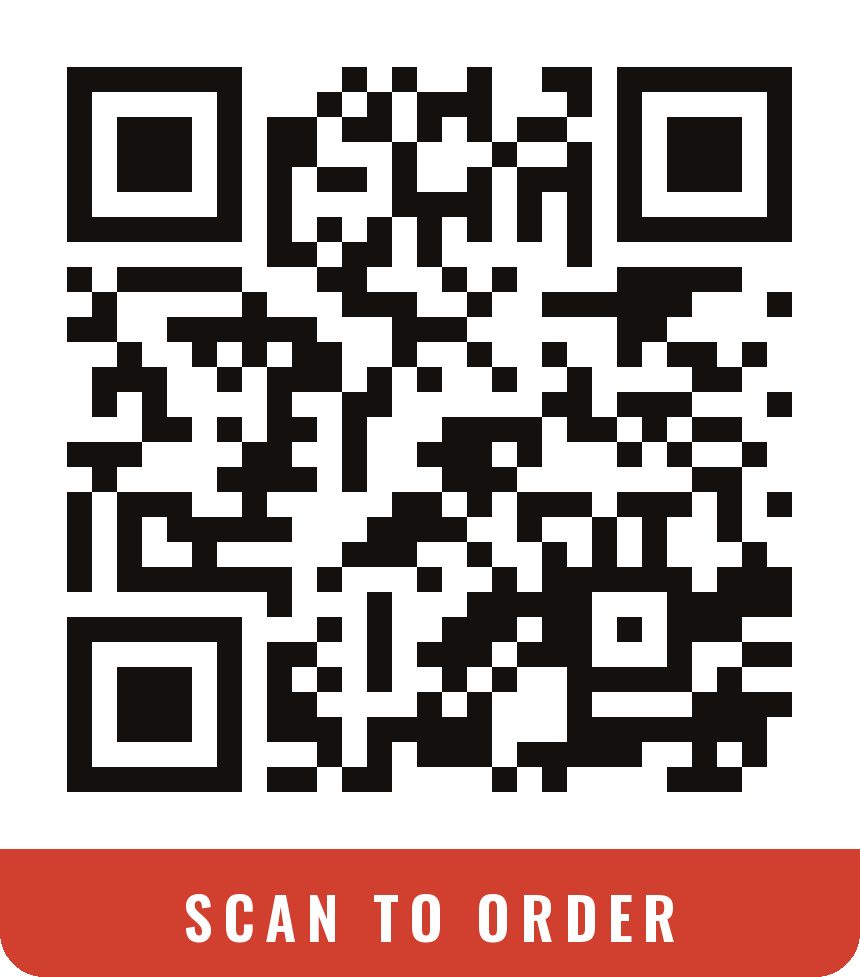
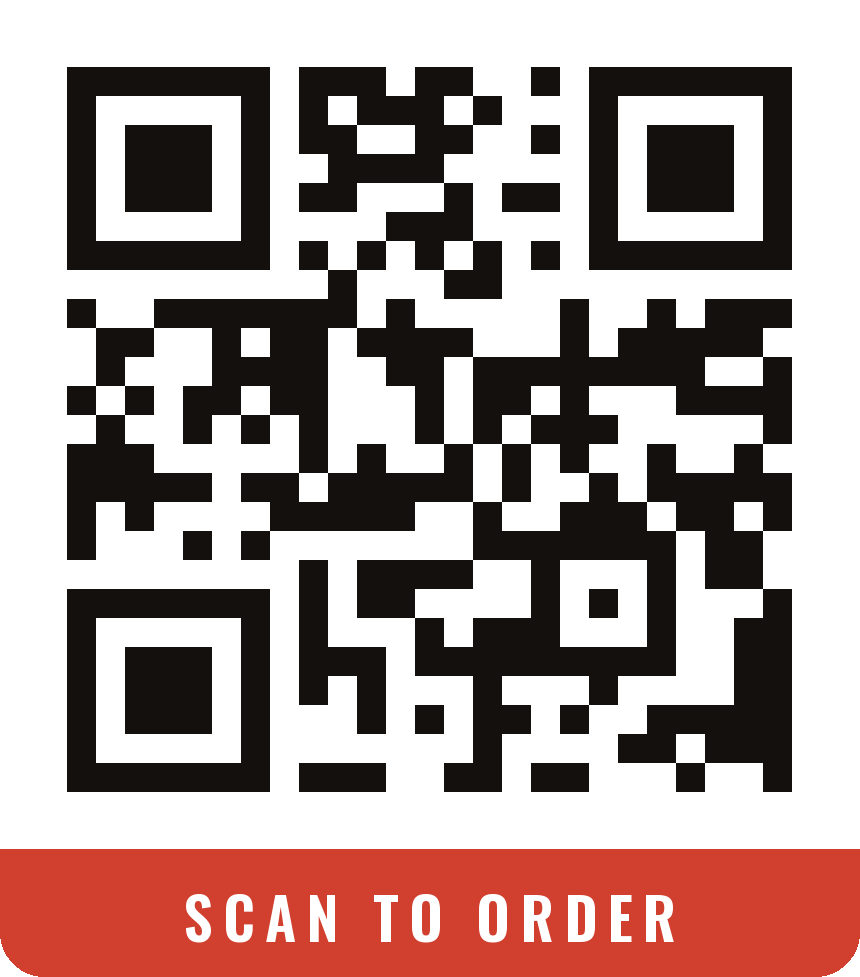
QR scenes now use QR Tiger dynamic links (scan tracking)
Claude-Session: https://claude.ai/code/session_01Hn3nXvhXzh1Uqx1hd1ZeG3

diff --git a/boards/v2c/menu.html b/boards/v2c/menu.html
@@ -527,7 +527,7 @@
     // Cards are built by a script (white tile + "SCAN TO ..." bar). To point a
     // code somewhere else (e.g. QR Tiger tracking links), regenerate the PNG.
     { id: "qr-order", type: "signature", slot: "qr", eyebrow: "Skip the Line", title: "Order Ahead",
-      desc: "Scan to order online for pickup or delivery", brandImg: "qr-order.png", art: { w: 330 } },     // roccospizzarestaurantmenu.com
+      desc: "Scan to order online for pickup or delivery", brandImg: "qr-order.png", art: { w: 330 } },     // QR Tiger dynamic qr1.be/YR2Z90 -> roccospizzarestaurantmenu.com ("Rocco's TV - Order Ahead")
     { id: "qr-review", type: "signature", slot: "qr", eyebrow: "Thanks for Coming In", title: "Leave Us a Review",
       desc: "Scan to rate us on Google. It means a lot!", brandImg: "qr-review.png", art: { w: 330 } },
     // ----- BOTH TVs: Rocco's x Proudly Featuring Boar's Head (added Nov 21, Brian).
